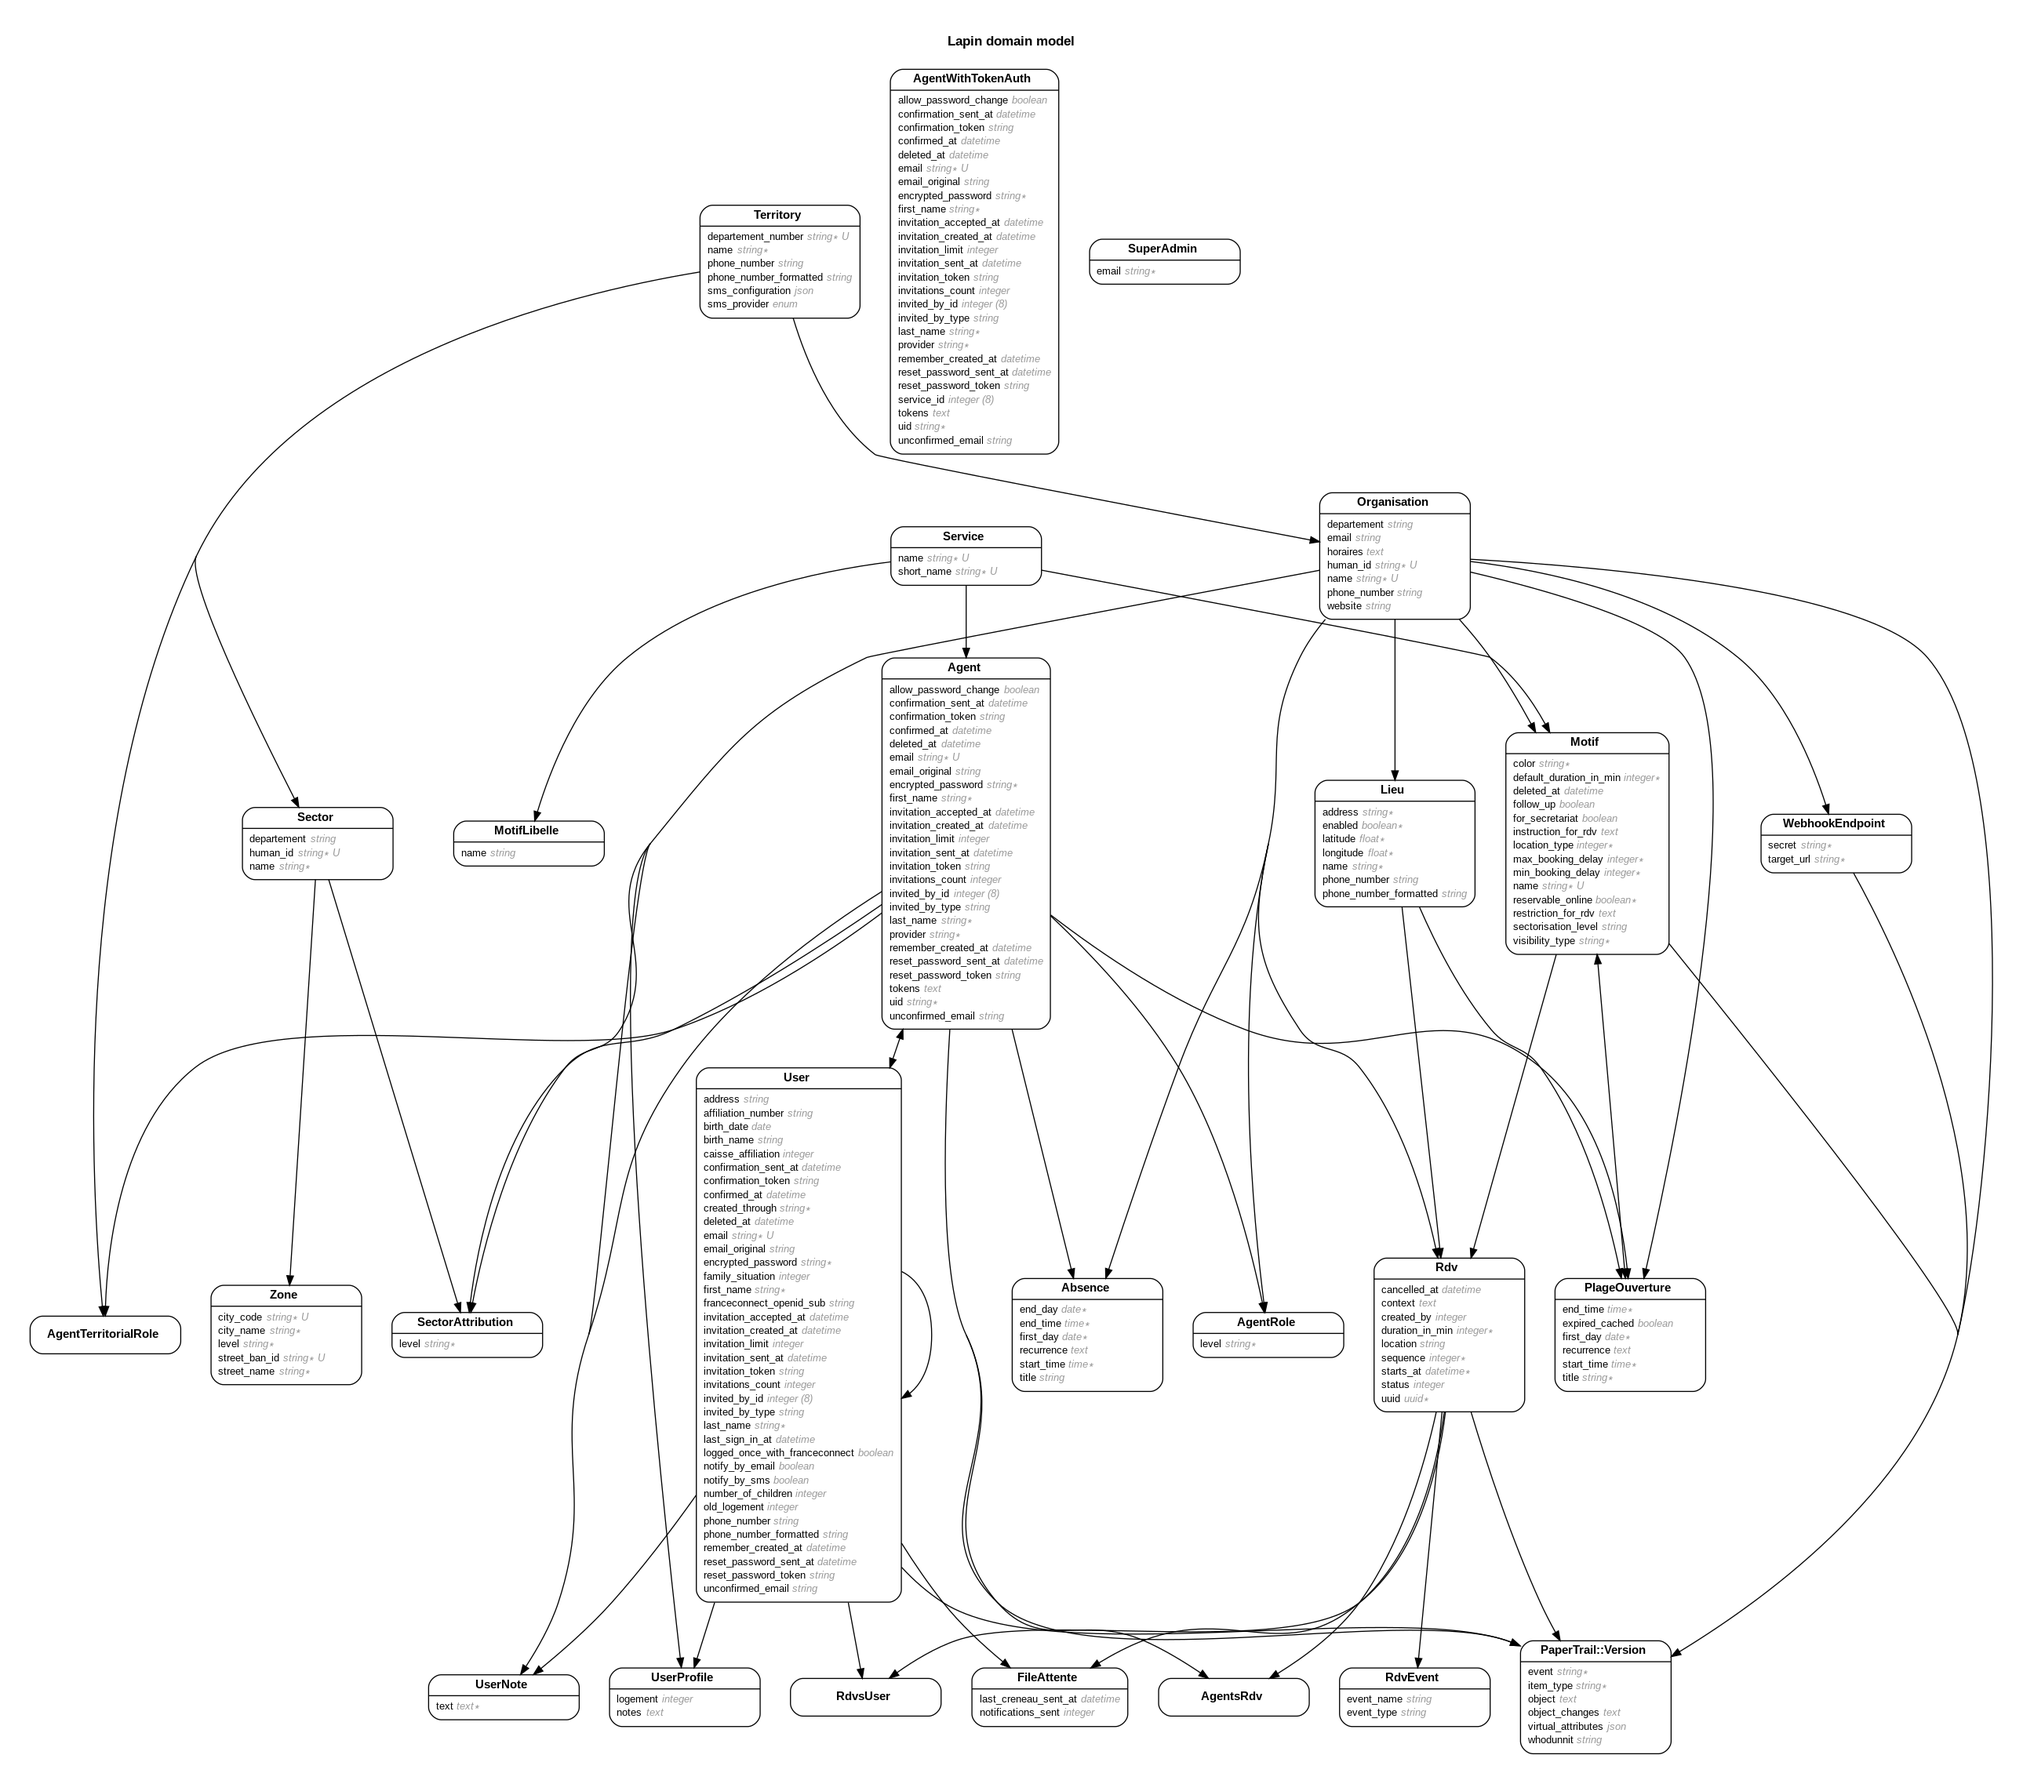
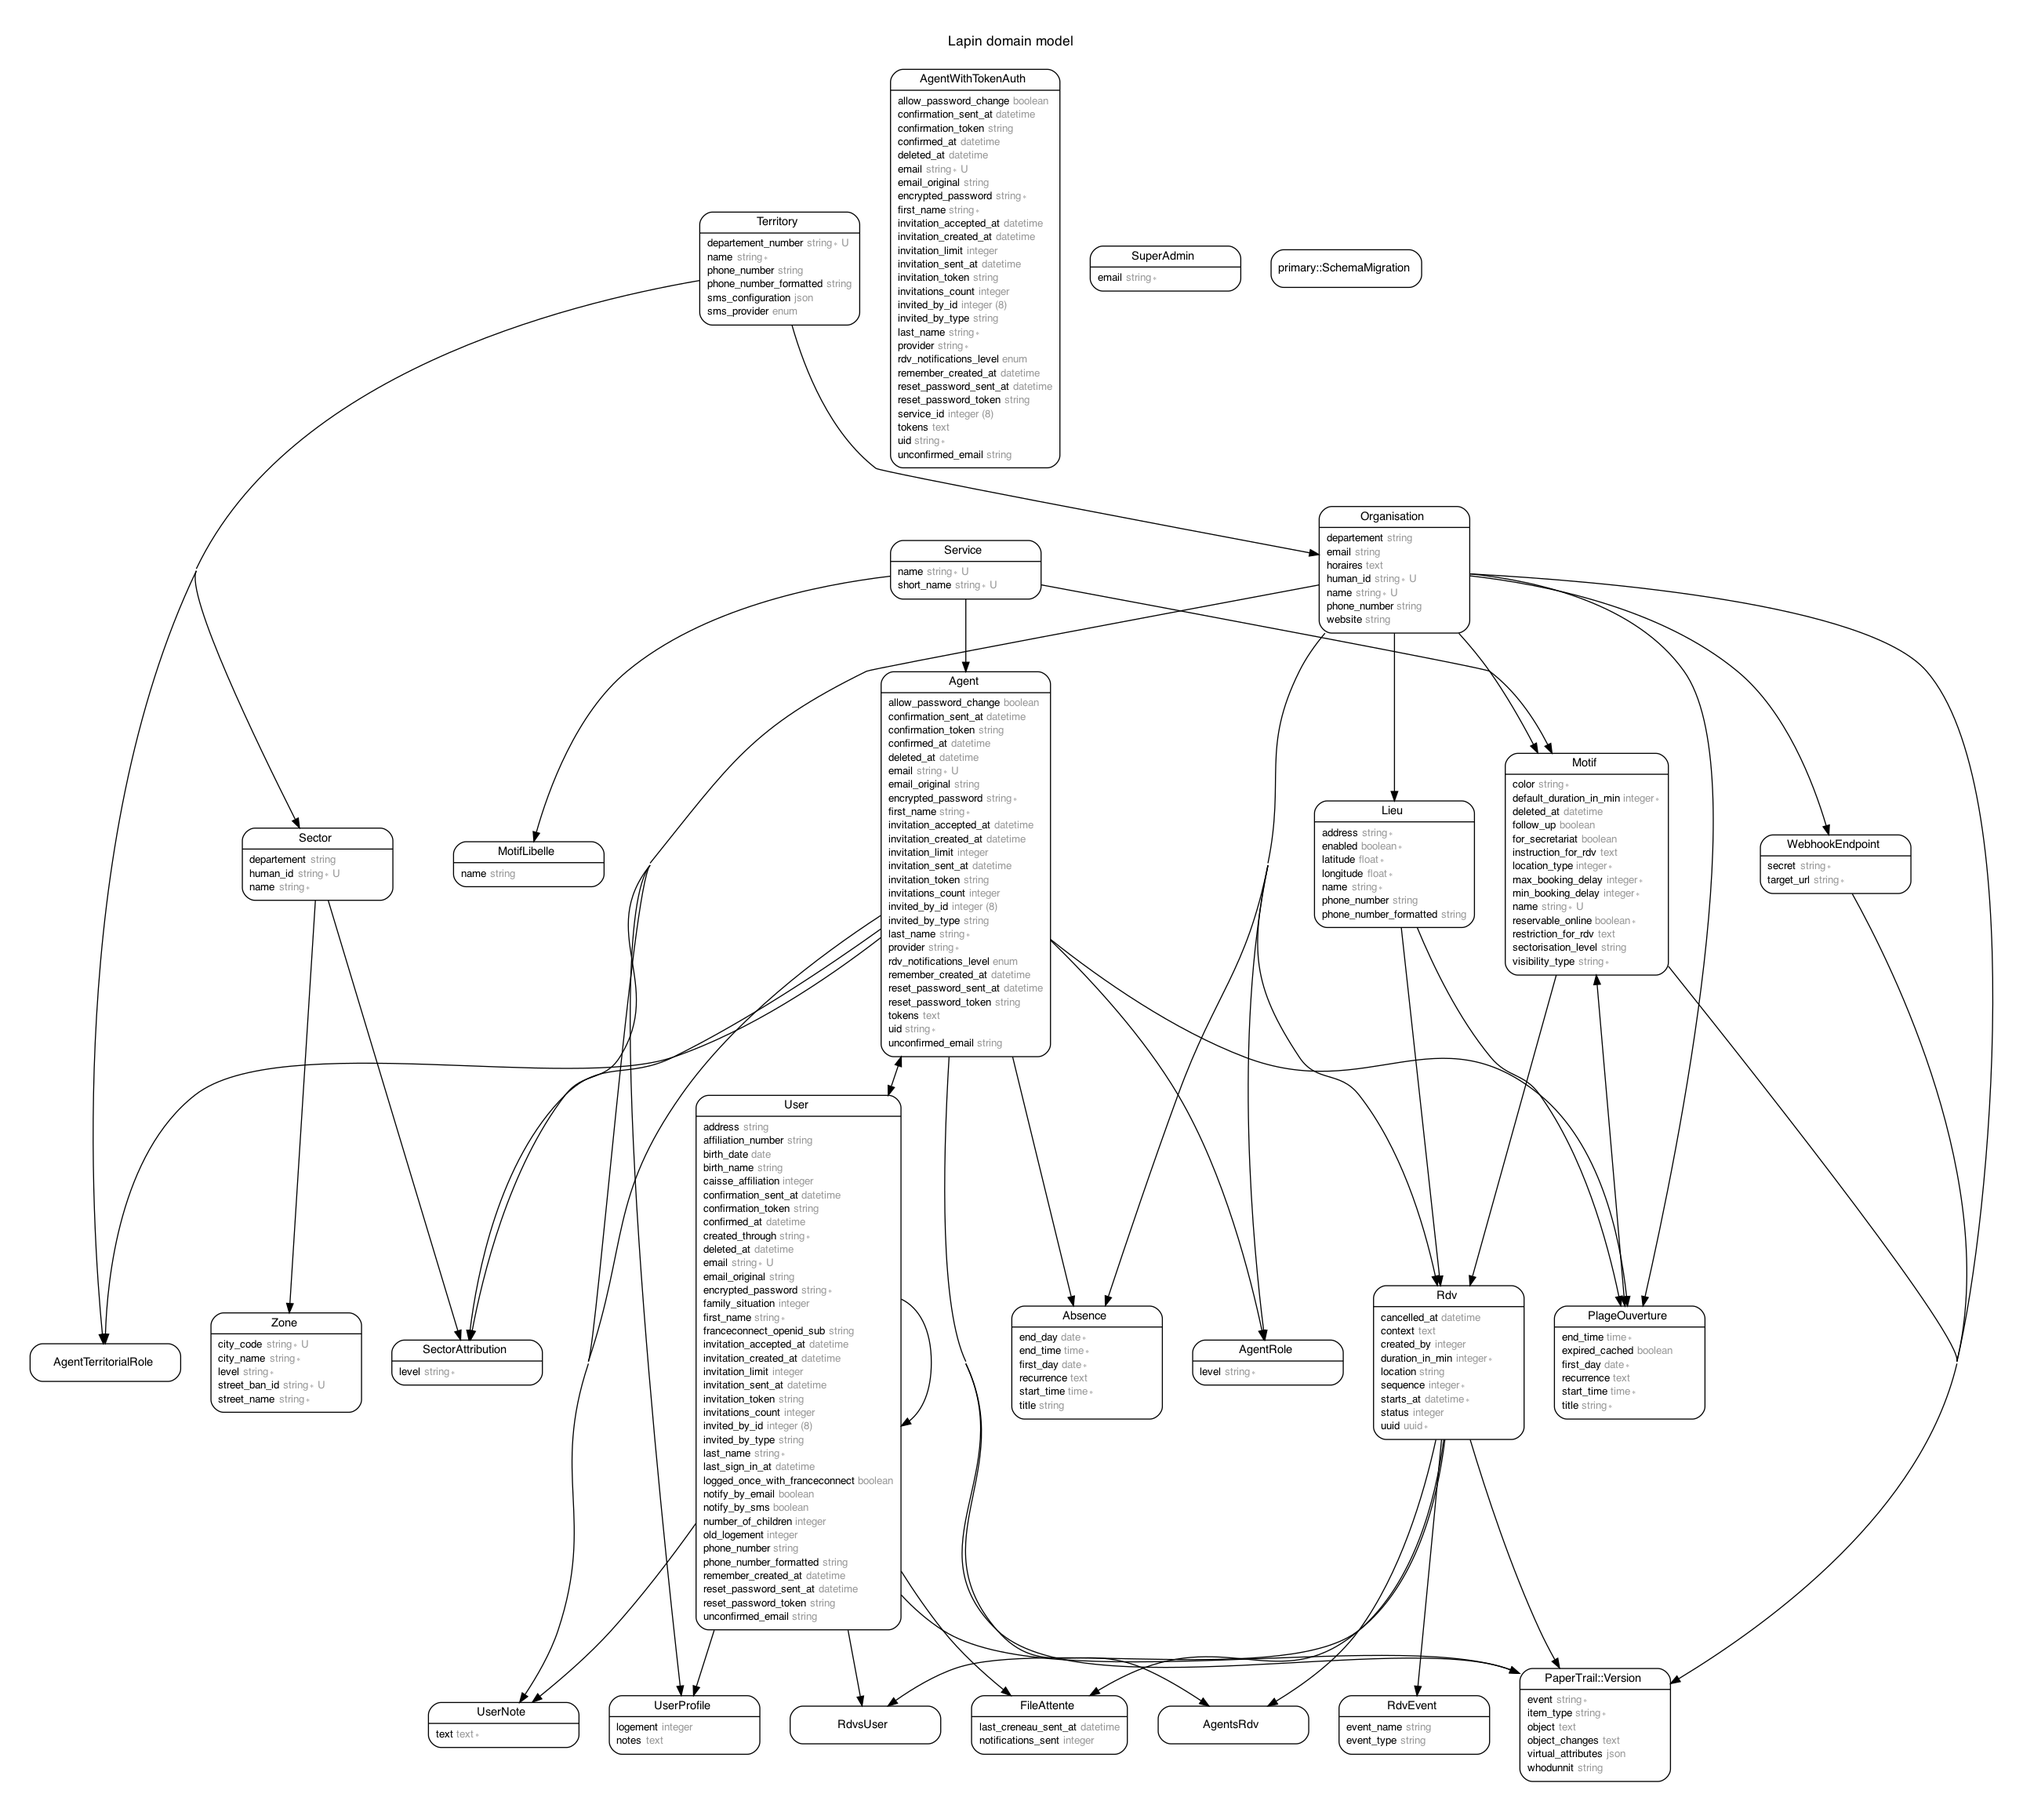
Add Agent#rdv_notifications_level

diff --git a/db/schema.rb b/db/schema.rb
@@ -10,12 +10,19 @@
 #
 # It's strongly recommended that you check this file into your version control system.
 
-ActiveRecord::Schema.define(version: 2021_05_06_164841) do
+ActiveRecord::Schema.define(version: 2021_05_11_111514) do
 
   # These are extensions that must be enabled in order to support this database
   enable_extension "plpgsql"
   enable_extension "unaccent"
   enable_extension "uuid-ossp"
+
+  create_enum :agents_rdv_notifications_level, [
+    "all",
+    "others",
+    "soon",
+    "none",
+  ], force: :cascade
 
   create_enum :sms_provider, [
     "netsize",
@@ -105,6 +112,7 @@ ActiveRecord::Schema.define(version: 2021_05_06_164841) do
     t.string "uid", default: "", null: false
     t.text "tokens"
     t.boolean "allow_password_change", default: false
+    t.enum "rdv_notifications_level", default: "soon", enum_name: "agents_rdv_notifications_level"
     t.index ["confirmation_token"], name: "index_agents_on_confirmation_token", unique: true
     t.index ["email"], name: "index_agents_on_email", unique: true
     t.index ["invitation_token"], name: "index_agents_on_invitation_token", unique: true

diff --git a/app/models/agent.rb b/app/models/agent.rb
@@ -15,6 +15,13 @@ class Agent < ApplicationRecord
   include DeviseTokenAuth::Concerns::ConfirmableSupport
   include DeviseTokenAuth::Concerns::UserOmniauthCallbacks
 
+  enum rdv_notifications_level: {
+    all: "all",       # notify of all rdv changes
+    others: "others", # notify of changes made by other agents or users
+    soon: "soon",     # notify of change (made by others) less than a day before the rdv
+    none: "none"      # never send rdv notifications
+  }, _prefix: true
+
   belongs_to :service
   has_many :lieux, through: :organisation
   has_many :motifs, through: :service

diff --git a/db/migrate/20210511111514_add_agents_notifications_level.rb b/db/migrate/20210511111514_add_agents_notifications_level.rb
@@ -1,0 +1,8 @@
+# frozen_string_literal: true
+
+class AddAgentsNotificationsLevel < ActiveRecord::Migration[6.0]
+  def change
+    create_enum :agents_rdv_notifications_level, %i[all others soon none]
+    add_column :agents, :rdv_notifications_level, :agents_rdv_notifications_level, optional: false, default: :soon
+  end
+end
